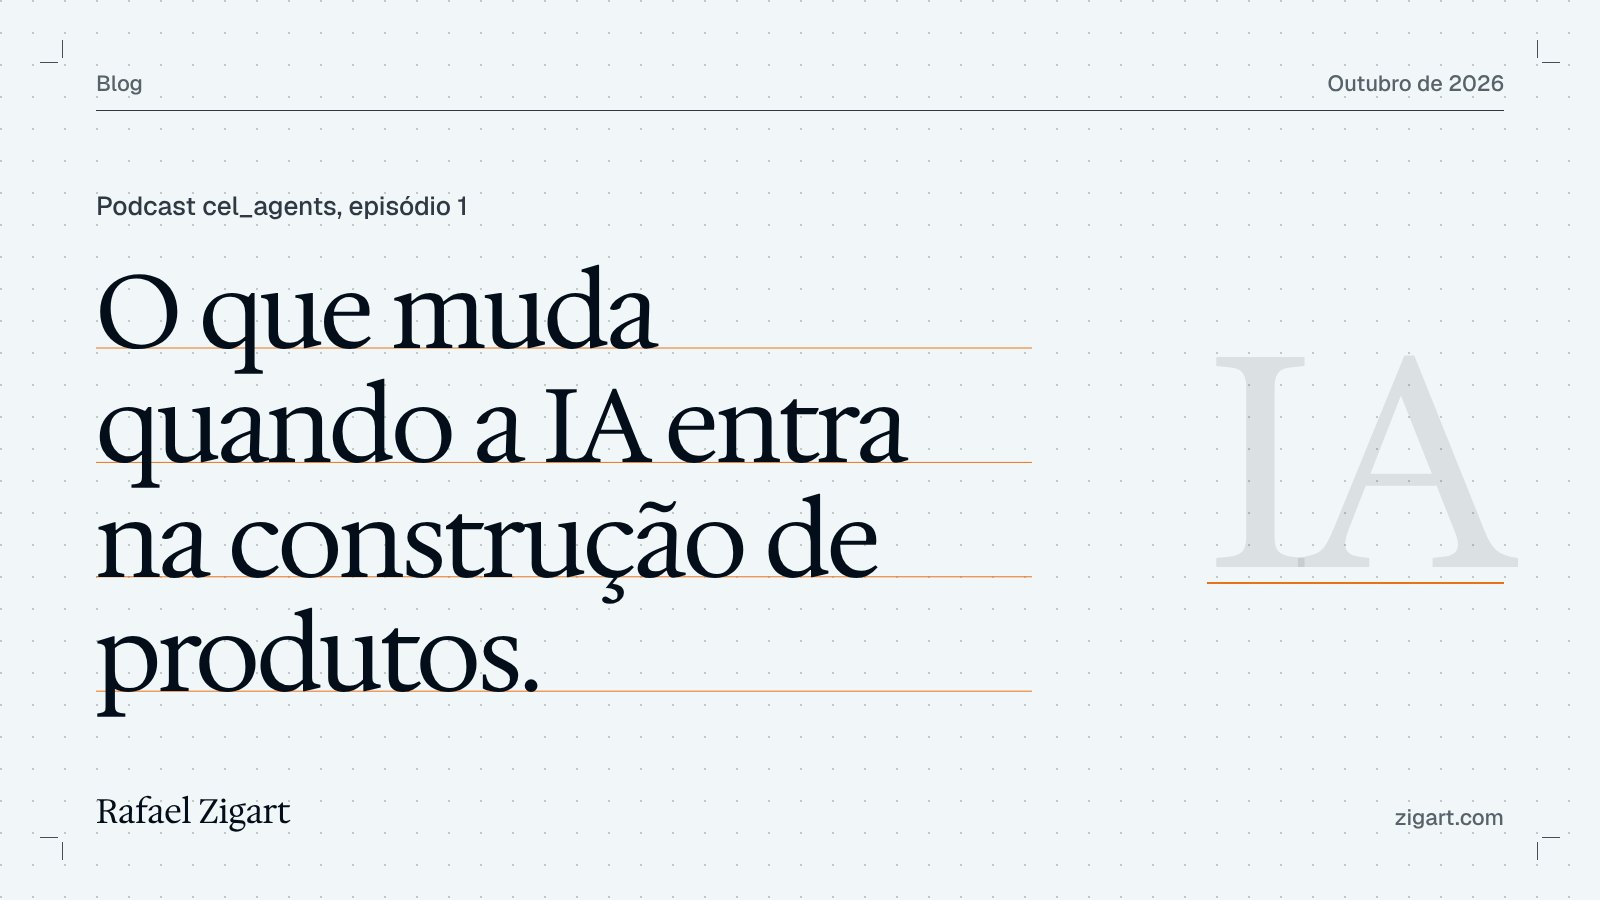
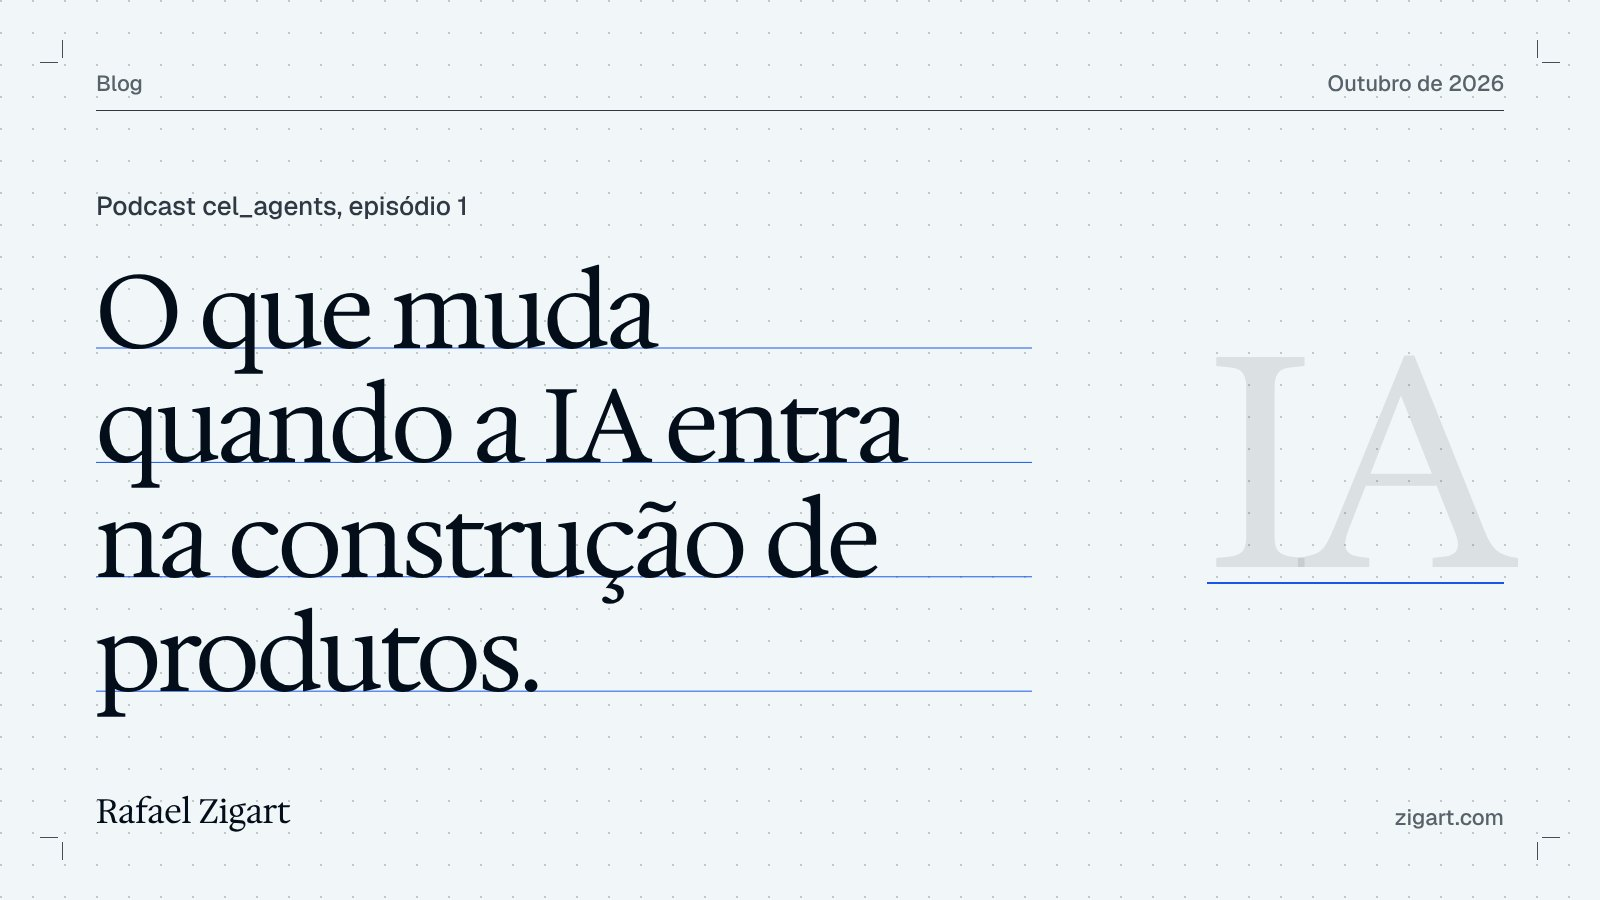
Foto em pixel animada e azul no lugar do laranja (#4)
Claude-Session: https://claude.ai/code/session_01RRVHz4eTtsGg1hUuv1ogdm

diff --git a/js/site.js b/js/site.js
@@ -271,3 +271,86 @@
     });
   }
 })();
+
+// The pixel portrait: the pixel half assembles, shimmers and scatters under the pointer.
+(() => {
+  const host = document.querySelector('[data-pixel]');
+  if (!host || matchMedia('(prefers-reduced-motion: reduce)').matches) return;
+  const img = host.querySelector('img');
+  const btn = document.querySelector('[data-pixel-toggle]');
+  // The source image, 1024 px: a 13.55 px pixel grid, and the diagonal split from x 572 at the top to x 454 at the foot.
+  const SRC = 1024, P = 13.55, PX = 6.3, PY = 2.2, TOP = 572, FOOT = 454;
+  const splitX = (y) => TOP + (FOOT - TOP) * (y / SRC);
+  const start = () => {
+    const off = document.createElement('canvas'); off.width = SRC; off.height = SRC;
+    const octx = off.getContext('2d', { willReadFrequently: true });
+    try { octx.drawImage(img, 0, 0, SRC, SRC); octx.getImageData(0, 0, 1, 1); } catch (e) { return; }
+    const data = octx.getImageData(0, 0, SRC, SRC).data;
+    const cells = [];
+    for (let y = PY - P; y < SRC; y += P) {
+      for (let x = PX - P; x < SRC; x += P) {
+        const cx = Math.min(SRC - 1, Math.max(0, Math.round(x + P / 2))), cy = Math.min(SRC - 1, Math.max(0, Math.round(y + P / 2)));
+        if (x + P < splitX(y + P / 2) - 2) continue;
+        const i = (cy * SRC + cx) * 4, r = data[i], g = data[i + 1], b = data[i + 2];
+        const blue = b > 140 && b > r + 40;
+        cells.push({ x, y, r, g, b, blue, ph: Math.random() * 6.283, sp: 0.4 + Math.random() * 1.2, sx: (Math.random() - 0.5) * 220, sy: (Math.random() - 0.5) * 220, d: 0 });
+      }
+    }
+    cells.forEach((c) => { c.d = Math.abs(c.x - splitX(c.y)) / SRC; });
+    const blues = cells.filter((c) => c.blue);
+    cells.forEach((c) => { if (c.blue) { const o = blues[(Math.random() * blues.length) | 0]; c.ar = o.r; c.ag = o.g; c.ab = o.b; } });
+
+    const cv = document.createElement('canvas'); cv.setAttribute('aria-hidden', 'true');
+    host.append(cv);
+    const ctx = cv.getContext('2d');
+    let w = 0, s = 1, dpr = 1, seen = false, held = false, raf = 0, t0 = 0, born = 0;
+    const ptr = { x: -9999, y: -9999, at: 0 };
+    const size = () => { dpr = Math.min(2, devicePixelRatio || 1); w = host.clientWidth; s = w / SRC; cv.width = cv.height = Math.round(w * dpr); };
+    const ease = (k) => 1 - Math.pow(1 - k, 4);
+    const draw = (now) => {
+      raf = 0;
+      if (!seen) return;
+      if (!born) born = now;
+      const t = (now - born) / 1000;
+      ctx.setTransform(dpr * s, 0, 0, dpr * s, 0, 0);
+      ctx.clearRect(0, 0, SRC, SRC);
+      ctx.save(); ctx.beginPath(); ctx.moveTo(0, 0); ctx.lineTo(TOP, 0); ctx.lineTo(FOOT, SRC); ctx.lineTo(0, SRC); ctx.closePath(); ctx.clip();
+      ctx.drawImage(img, 0, 0, SRC, SRC); ctx.restore();
+      ctx.save(); ctx.beginPath(); ctx.moveTo(TOP, 0); ctx.lineTo(SRC, 0); ctx.lineTo(SRC, SRC); ctx.lineTo(FOOT, SRC); ctx.closePath(); ctx.clip();
+      const near = now - ptr.at < 1500;
+      const R = 120 / s;
+      let busy = false;
+      for (const c of cells) {
+        const k = Math.min(1, Math.max(0, (t - c.d * 1.4) / 0.9));
+        const e = ease(k);
+        if (k < 1) busy = true;
+        let dx = c.sx * (1 - e), dy = c.sy * (1 - e), lift = 0;
+        if (near) {
+          const mx = c.x + P / 2 - ptr.x, my = c.y + P / 2 - ptr.y, dd = Math.hypot(mx, my);
+          if (dd < R) { const q = 1 - dd / R; lift = q; dx += (mx / (dd || 1)) * q * q * 26; dy += (my / (dd || 1)) * q * q * 26; }
+        }
+        let r = c.r, g = c.g, b = c.b;
+        if (c.blue && !held) {
+          const m = Math.pow(Math.max(0, Math.sin(t * c.sp + c.ph)), 6) * 0.9;
+          r += (c.ar - r) * m; g += (c.ag - g) * m; b += (c.ab - b) * m;
+        }
+        if (lift) { r += (255 - r) * lift * 0.35; g += (255 - g) * lift * 0.35; b += (255 - b) * lift * 0.2; }
+        ctx.globalAlpha = 0.25 + 0.75 * e;
+        ctx.fillStyle = 'rgb(' + (r | 0) + ',' + (g | 0) + ',' + (b | 0) + ')';
+        const pad = lift * 3;
+        ctx.fillRect(c.x + dx - pad / 2 - 0.75, c.y + dy - pad / 2 - 0.75, P + 1.5 + pad, P + 1.5 + pad);
+      }
+      ctx.restore(); ctx.globalAlpha = 1;
+      if (busy || near || !held) raf = requestAnimationFrame(draw);
+    };
+    const kick = () => { if (!raf && seen) raf = requestAnimationFrame(draw); };
+    const move = (e) => { const r = cv.getBoundingClientRect(); ptr.x = (e.clientX - r.left) / s; ptr.y = (e.clientY - r.top) / s; ptr.at = performance.now(); kick(); };
+    cv.addEventListener('pointermove', move); cv.addEventListener('pointerdown', move);
+    cv.addEventListener('pointerleave', () => { ptr.at = 0; });
+    if (btn) btn.addEventListener('click', () => { held = !held; btn.textContent = held ? 'Animar' : 'Pausar'; kick(); });
+    new ResizeObserver(() => { size(); kick(); }).observe(host);
+    new IntersectionObserver(([e]) => { seen = e.isIntersecting; kick(); }, { threshold: 0.15 }).observe(host);
+    size(); host.classList.add('is-live');
+  };
+  if (img.complete && img.naturalWidth) start(); else img.addEventListener('load', start, { once: true });
+})();

diff --git a/css/site.css b/css/site.css
@@ -1,4 +1,4 @@
-/* Hallmark · shape: Long Document, swapped to an index that opens (a hire page needs its action in view, not inside prose) · genre: editorial · theme: Studio (by request) · job: hire · draw: de8ef2
+/* Hallmark · shape: Long Document, swapped to an index that opens (a hire page needs its action in view, not inside prose) · genre: editorial · theme: Studio (by request), accent blue by request · job: hire · draw: de8ef2
  * hero: Ledge (swapped from Banner: the user asked for the Studio look, its wordmark construction) · nav: edge-aligned, the wordmark, two links and the printed action, no rule (swapped from search-led: one page has nothing to search) · footer: statement, one line from his own profile over the links · imagery: one photograph, the user's own, natural, crop-marked in the about split · signature: the name under construction, Hedvig set huge on its real metrics (ascender 800, cap 700, x-height 520, descender -257)
  * axes: light/roman-serif/cool · posture: restrained · contrast: pass · fold: pass · v2.0.0 */
 /* Hallmark · pre-emit critique: P4 H4 E4 S4 R4 V4 · weakest: S, a head about twelve years fits other careers; the name drawn on its own font metrics and the Shell Box case opened in place carry the specificity */
@@ -544,3 +544,18 @@ html.is-entering body { overflow: hidden; }
 .video a { gap: var(--space-xs); }
 .chapter__video { justify-self: start; }
 @media (max-width: 60rem) { .episodes--full .ep { grid-template-columns: minmax(0, 1fr); } }
+
+/* The portrait: the pixel half lives on a canvas over the photograph */
+.photo--square { aspect-ratio: 1 / 1; }
+.photo--square > canvas { position: absolute; inset: 0; width: 100%; height: 100%; border-radius: var(--radius-card); z-index: 1; }
+.photo--square.is-live > img { visibility: hidden; }
+.photo--square { position: relative; }
+.photo--square > canvas { cursor: crosshair; touch-action: pan-y; }
+.redline { display: flex; justify-content: center; align-items: center; gap: var(--space-md); }
+.pixel-toggle { min-height: 44px; padding: 0 var(--space-xs); border: 0; background: none; color: var(--color-ink-2); font: 500 var(--text-xs)/1 var(--font-body); text-decoration: underline var(--rule-hair); text-underline-offset: 0.3em; cursor: pointer; }
+.pixel-toggle:hover { color: var(--color-ink); text-decoration-color: var(--color-accent); }
+.pixel-toggle:active { transform: translateY(1px); }
+.pixel-toggle:focus-visible { outline: 2px solid var(--color-focus); outline-offset: 2px; }
+.pixel-toggle:disabled { opacity: 0.55; cursor: not-allowed; }
+html:not(.js) .pixel-toggle { display: none; }
+@media (prefers-reduced-motion: reduce) { .pixel-toggle { display: none; } }

diff --git a/index.html b/index.html
@@ -69,10 +69,10 @@
   <section class="section about" id="sobre" aria-labelledby="about-title">
     <div class="container about__grid">
       <figure class="about__photo">
-        <div class="photo crop">
-          <img src="images/rafael-1080.jpg" srcset="images/rafael-720.jpg 720w, images/rafael-1080.jpg 1080w" sizes="(min-width: 60rem) 40vw, 100vw" width="1080" height="1350" alt="Rafael Zigart de óculos escuros e jaqueta, com um bastão de caminhada, diante de montanhas nevadas" loading="lazy">
+        <div class="photo photo--square crop" data-pixel>
+          <img src="images/rafael-pixel.webp" width="1024" height="1024" alt="Retrato de Rafael Zigart dividido na diagonal: à esquerda a foto em azul sobre uma cidade à noite, à direita o mesmo rosto em pixel art" loading="lazy">
         </div>
-        <figcaption class="redline"><span>4:5, 1080 × 1350 px</span></figcaption>
+        <figcaption class="redline"><span>1:1, metade em pixels de 13,5 px</span><button class="pixel-toggle" type="button" data-pixel-toggle>Pausar</button></figcaption>
       </figure>
       <div class="about__text">
         <h2 id="about-title">Produto de ponta a ponta.</h2>

diff --git a/css/tokens.css b/css/tokens.css
@@ -12,7 +12,7 @@
   --color-paper: oklch(97.2% 0.006 215); --color-paper-2: oklch(94% 0.009 215); --color-paper-3: oklch(90.5% 0.011 215); --color-paper-hi: oklch(99% 0.004 215);
   --color-ink: oklch(16% 0.032 250); --color-ink-2: oklch(34% 0.022 245); --color-muted: oklch(49% 0.018 240);
   --color-rule: oklch(84% 0.010 225);
-  --color-accent: oklch(68% 0.172 50); --color-accent-ink: oklch(16% 0.032 250); --color-focus: oklch(52% 0.15 48);
+  --color-accent: oklch(52% 0.23 263); --color-accent-ink: oklch(99% 0.004 215); --color-focus: oklch(47% 0.22 263);
   --color-dot: color-mix(in oklab, var(--color-ink) 20%, transparent); --color-mark: color-mix(in oklab, var(--color-ink) 72%, transparent);
   --font-display: "Hedvig Letters Serif", ui-serif, Georgia, serif; --font-body: "Geist", ui-sans-serif, system-ui, sans-serif;
   --font-outlier: "Sofia Sans Extra Condensed", "Arial Narrow", ui-sans-serif, sans-serif;
